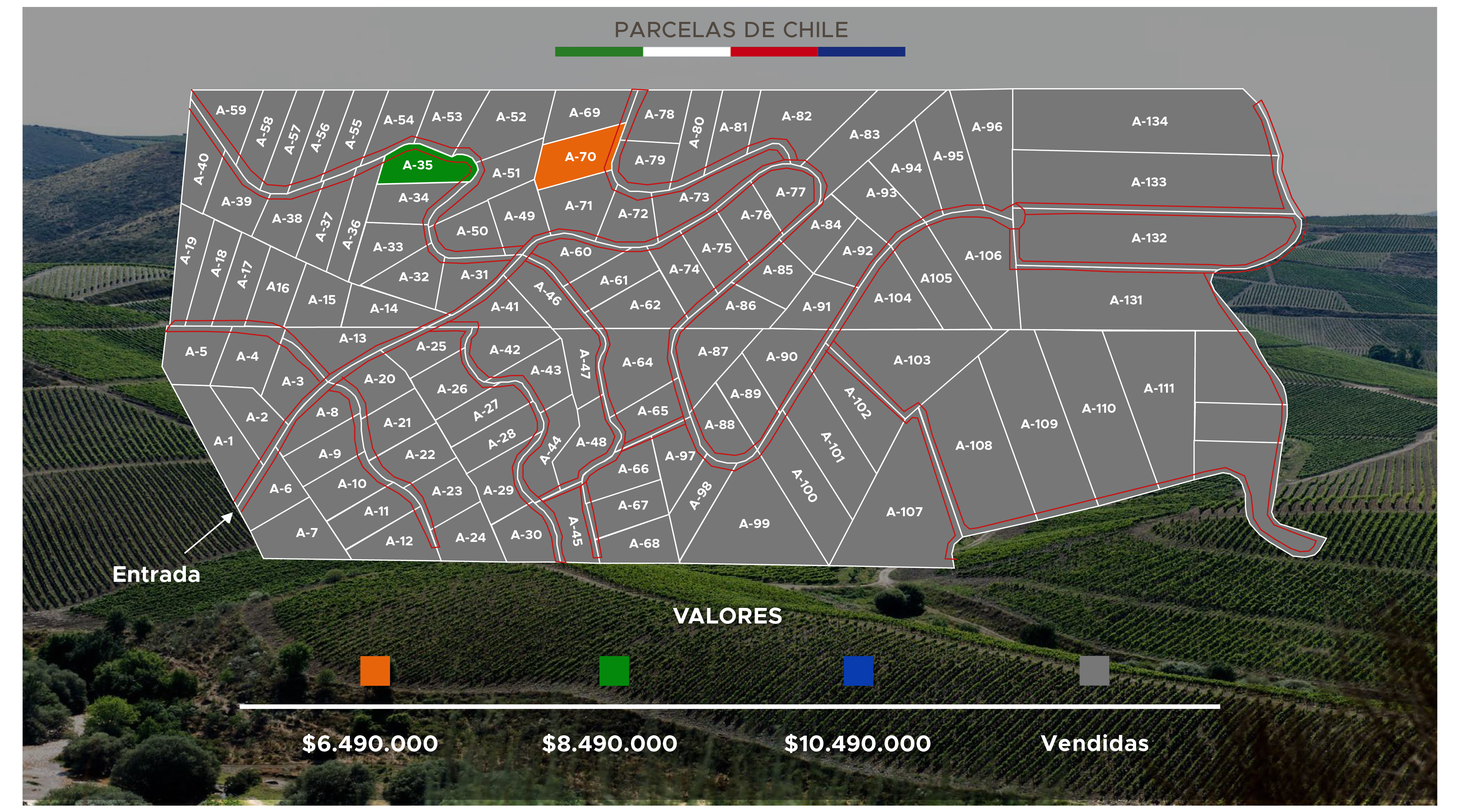
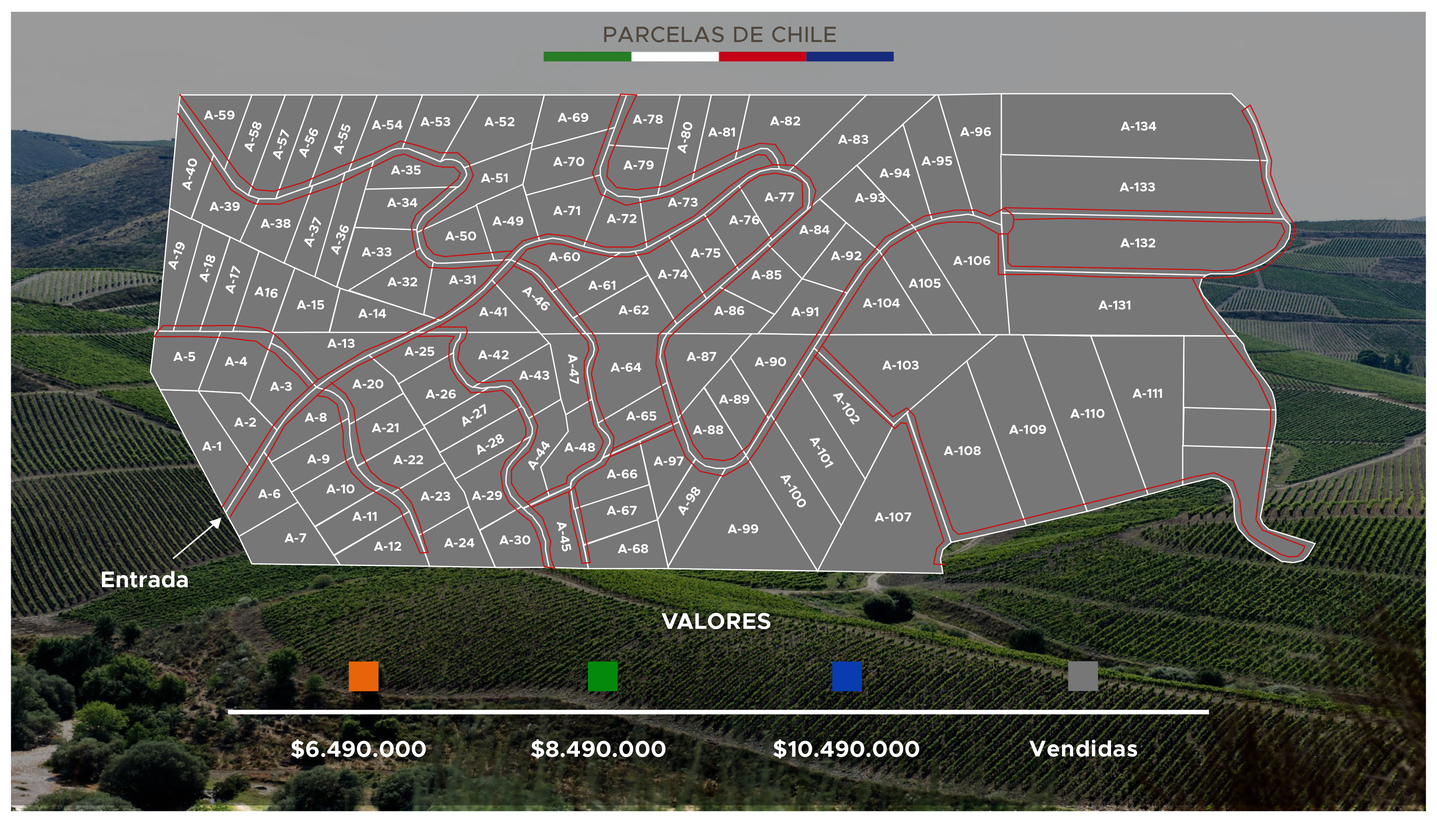
actualizando planos

diff --git a/view/componentes/mapsvg/js/laconsentida.js b/view/componentes/mapsvg/js/laconsentida.js
@@ -53,7 +53,7 @@
                     'p-71': {
                         id: "p-71",
                         'id_no_spaces': "p-71",
-                        fill: "rgba(88,89,89,1)",
+                        fill: "rgba(229,191,89,1)",
                         tooltip: "NO DISPONIBLE",
                         popover: "NO DISPONIBLE",
                         data: {}
@@ -150,82 +150,82 @@
                     'p-29': {
                         id: "p-29",
                         'id_no_spaces': "p-29",
-                        fill: "rgba(57,142,45,1)",
-                        tooltip: "$39.990.000",
-                        popover: "$39.990.000",
+                        fill: "rgba(88,89,89,1)",
+                        tooltip: "NO DISPONIBLE",
+                        popover: "NO DISPONIBLE",
                         data: {}
                     },
                     'p-28': {
                         id: "p-28",
                         'id_no_spaces': "p-28",
-                        fill: "rgba(57,142,45,1)",
-                        tooltip: "$39.990.000",
-                        popover: "$39.990.000",
+                        fill: "rgba(88,89,89,1)",
+                        tooltip: "NO DISPONIBLE",
+                        popover: "NO DISPONIBLE",
                         data: {}
                     },
                     'p-27': {
                         id: "p-27",
                         'id_no_spaces': "p-27",
-                        fill: "rgba(57,142,45,1)",
-                        tooltip: "$39.990.000",
-                        popover: "$39.990.000",
+                        fill: "rgba(88,89,89,1)",
+                        tooltip: "NO DISPONIBLE",
+                        popover: "NO DISPONIBLE",
                         data: {}
                     },
                     'p-26': {
                         id: "p-26",
                         'id_no_spaces': "p-26",
-                        fill: "rgba(57,142,45,1)",
-                        tooltip: "$39.990.000",
-                        popover: "$39.990.000",
+                        fill: "rgba(88,89,89,1)",
+                        tooltip: "NO DISPONIBLE",
+                        popover: "NO DISPONIBLE",
                         data: {}
                     },
                     'p-25': {
                         id: "p-25",
                         'id_no_spaces': "p-25",
-                        fill: "rgba(57,142,45,1)",
-                        tooltip: "$39.990.000",
-                        popover: "$39.990.000",
+                        fill: "rgba(88,89,89,1)",
+                        tooltip: "NO DISPONIBLE",
+                        popover: "NO DISPONIBLE",
                         data: {}
                     },
                     
                     'p-24': {
                         id: "p-24",
                         'id_no_spaces': "p-24",
-                        fill: "rgba(57,142,45,1)",
-                        tooltip: "$39.990.000",
-                        popover: "$39.990.000",
+                        fill: "rgba(88,89,89,1)",
+                        tooltip: "NO DISPONIBLE",
+                        popover: "NO DISPONIBLE",
                         data: {}
                     },
                     'p-23': {
                         id: "p-23",
                         'id_no_spaces': "p-23",
-                        fill: "rgba(57,142,45,1)",
-                        tooltip: "$39.990.000",
-                        popover: "$39.990.000",
+                        fill: "rgba(88,89,89,1)",
+                        tooltip: "NO DISPONIBLE",
+                        popover: "NO DISPONIBLE",
                         data: {}
                     },
                     'p-22': {
                         id: "p-22",
                         'id_no_spaces': "p-22",
-                        fill: "rgba(57,142,45,1)",
-                        tooltip: "$39.990.000",
-                        popover: "$39.990.000",
+                        fill: "rgba(88,89,89,1)",
+                        tooltip: "NO DISPONIBLE",
+                        popover: "NO DISPONIBLE",
                         data: {}
                     },
                     'p-21': {
                         id: "p-21",
                         'id_no_spaces': "p-21",
-                        fill: "rgba(57,142,45,1)",
-                        tooltip: "$39.990.000",
-                        popover: "$39.990.000",
+                        fill: "rgba(88,89,89,1)",
+                        tooltip: "NO DISPONIBLE",
+                        popover: "NO DISPONIBLE",
                         data: {}
                     },
                     'p-20': {
                         id: "p-20",
                         'id_no_spaces': "p-20",
-                        fill: "rgba(57,142,45,1)",
-                        tooltip: "$39.990.000",
-                        popover: "$39.990.000",
+                        fill: "rgba(88,89,89,1)",
+                        tooltip: "NO DISPONIBLE",
+                        popover: "NO DISPONIBLE",
                         data: {}
                     },
                     'p-19': {

diff --git a/view/componentes/mapsvg/js/volantin.js b/view/componentes/mapsvg/js/volantin.js
@@ -54,25 +54,25 @@ jQuery(document).ready(function () {
             'P-54': {
                 id: "P-54",
                 'id_no_spaces': "P-54",
-                fill: "rgba(15,80,134,1)",
-                tooltip: "$10.490.000",
-                popover: "$10.490.000",
+                fill: "rgba(88,89,89,1)",
+                tooltip: "VENDIDA",
+                popover: "VENDIDA",
                 data: {}
             },
             'P-53': {
                 id: "P-53",
                 'id_no_spaces': "P-53",
-                 fill: "rgba(15,80,134,1)",
-                tooltip: "$10.490.000",
-                popover: "$10.490.000",
+                 fill: "rgba(88,89,89,1)",
+                tooltip: "VENDIDA",
+                popover: "VENDIDA",
                 data: {}
             },
             'P-49': {
                 id: "P-49",
                 'id_no_spaces': "P-49",
-                fill: "rgba(15,80,134,1)",
-                tooltip: "$10.490.000",
-                popover: "$10.490.000",
+                fill: "rgba(88,89,89,1)",
+                tooltip: "VENDIDA",
+                popover: "VENDIDA",
                 data: {}
             },
             'P-48': {
@@ -102,9 +102,9 @@ jQuery(document).ready(function () {
             'P-46': {
                 id: "P-46",
                 'id_no_spaces': "P-46",
-                fill: "rgba(15,80,134,1)",
-                tooltip: "$10.490.000",
-                popover: "$10.490.000",
+                fill: "rgba(88,89,89,1)",
+                tooltip: "VENDIDA",
+                popover: "VENDIDA",
                 data: {}
             },
             'P-43': {
@@ -126,9 +126,9 @@ jQuery(document).ready(function () {
             'P-31': {
                 id: "P-31",
                 'id_no_spaces': "P-31",
-                fill: "rgba(88,89,89,1)",
-                tooltip: "VENDIDA",
-                popover: "VENDIDA",
+                fill: "rgba(15,80,134,1)",
+                tooltip: "$10.490.000",
+                popover: "$10.490.000",
                 data: {}
             },
             'P-32': {
@@ -366,17 +366,17 @@ jQuery(document).ready(function () {
             'P-44': {
                 id: "P-44",
                 'id_no_spaces': "P-44",
-                fill: "rgba(243,185,60,1)",
-                tooltip: "$8.490.000",
-                popover: "$8.490.000",
+                fill: "rgba(88,89,89,1)",
+                tooltip: "VENDIDA",
+                popover: "VENDIDA",
                 data: {}
             },
             'P-34-24': {
                 id: "P-34-24",
                 'id_no_spaces': "P-34",
-                 fill: "rgba(207,40,59,1)",
-                tooltip: "$10.490.000",
-                popover: "$10.490.000",
+                 fill: "rgba(88,89,89,1)",
+                tooltip: "VENDIDA",
+                popover: "VENDIDA",
                 data: {}
             },
             
@@ -409,9 +409,9 @@ jQuery(document).ready(function () {
             'P-21': {
                 id: "P-21",
                 'id_no_spaces': "P-21",
-                fill: "rgba(243,185,60,1)",
-                tooltip: "$8.490.000",
-                popover: "$8.490.000",
+                fill: "rgba(88,89,89,1)",
+                tooltip: "VENDIDA",
+                popover: "VENDIDA",
                 data: {}
             },
             'P-25': {
